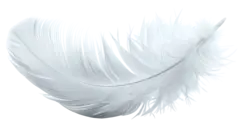
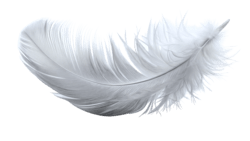
mejoras

Changed region(s): [[0.0292, 0.1481, 0.875, 0.8889], [0.875, 0.1185, 0.9333, 0.237], [0.4958, 0.237, 0.525, 0.2667]]

diff --git a/src/components/Pluma.svelte b/src/components/Pluma.svelte
@@ -46,22 +46,22 @@
 
       &.animation-four {
         transition: 3s cubic-bezier(0.5, 0.4, 0.6, 1);
-        transform: translateY(calc(25vh + 400px + 70vh + 280px)) translateX(100%) rotateZ(-20deg); //initial + firsText + testimonals + servicesHeight/2
+        transform: translateY(calc(25vh + 400px + 70vh + 310px)) translateX(100%) rotateZ(-20deg); //initial + firsText + testimonals + servicesHeight/2
       }
 
       &.animation-five {
         transition: 3s cubic-bezier(0.5, 0.4, 0.6, 1);
-        transform: translateY(calc(25vh + 400px + 70vh + 280px + 440px)) translateX(0%) rotateZ(0deg);
+        transform: translateY(calc(25vh + 400px + 70vh + 310px + 460px)) translateX(0%) rotateZ(0deg);
       }
 
       &.animation-six {
         transition: 3s cubic-bezier(0.5, 0.4, 0.6, 1);
-        transform: translateY(calc(25vh + 400px + 70vh + 280px + 440px + 350px)) translateX(-70%) rotateZ(30deg);
+        transform: translateY(calc(25vh + 400px + 70vh + 310px + 460px + 350px)) translateX(-70%) rotateZ(30deg);
       }
 
       &.animation-seven {
         transition: 3s cubic-bezier(0.5, 0.4, 0.6, 1);
-        transform: translateY(calc(25vh + 400px + 70vh + 280px + 440px + 350px + 920px)) translateX(0%) rotateZ(0deg);
+        transform: translateY(calc(25vh + 400px + 70vh + 310px + 460px + 350px + 920px)) translateX(0%) rotateZ(0deg);
       }
     }
   }
@@ -79,6 +79,6 @@
   }
 </style>
 
-<img id="pluma" class={move} src="/assets/pluma.webp" alt="pluma" width="230px" loading="lazy" />
+<img id="pluma" class={move} src="/assets/pluma.webp" alt="pluma" width="250px" height="141" loading="lazy" />
 
 <svelte:window on:scroll={handleScroll} />

diff --git a/src/components/MenuBasic.svelte b/src/components/MenuBasic.svelte
@@ -14,7 +14,7 @@
   const t = useTranslations(lang as keyof typeof languageList)
   const items: IMenuItem[] = [
     {
-      href: '/servicios',
+      href: '#servicios',
       title: t('menuServices'),
     },
     {
@@ -22,7 +22,7 @@
       title: t('menuTeam'),
     },
     {
-      href: '/contacto',
+      href: '#contacto',
       title: t('menuContact'),
     },
   ]
@@ -46,7 +46,7 @@
 
     scrolled = window.scrollY > 50
 
-    hidden = prevScrollpos > window.scrollY && scrolled
+    hidden = prevScrollpos < window.scrollY && scrolled
 
     prevScrollpos = window.scrollY
   }

diff --git a/src/components/sections/Servicios.svelte b/src/components/sections/Servicios.svelte
@@ -55,7 +55,7 @@
   .servicios-container,
   .valores-container {
     width: 100%;
-    margin-top: 20px;
+    padding-top: 50px;
     margin-bottom: 20px;
 
     display: grid;
@@ -155,7 +155,7 @@
   }
 </style>
 
-<div class="servicios-container g-wrapper">
+<div class="servicios-container g-wrapper" id="servicios">
   <div class="main g-box">
     <p class="title-section">{t('servicesTitle')}</p>
   </div>

diff --git a/src/components/sections/Tarifas.svelte b/src/components/sections/Tarifas.svelte
@@ -31,7 +31,7 @@
   }
 </style>
 
-<div class="tarifas">
+<div class="tarifas" id="contacto">
   <h2 class="g-title g-wrapper">{t('pricesTitle')}</h2>
   <div class="g-mini-wrapper">
     <div class="text">
